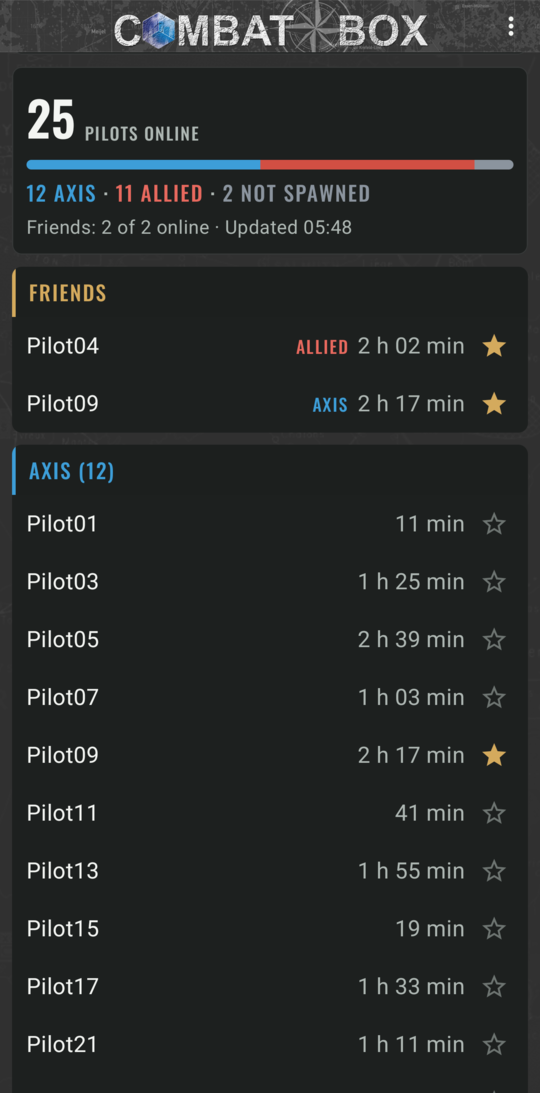
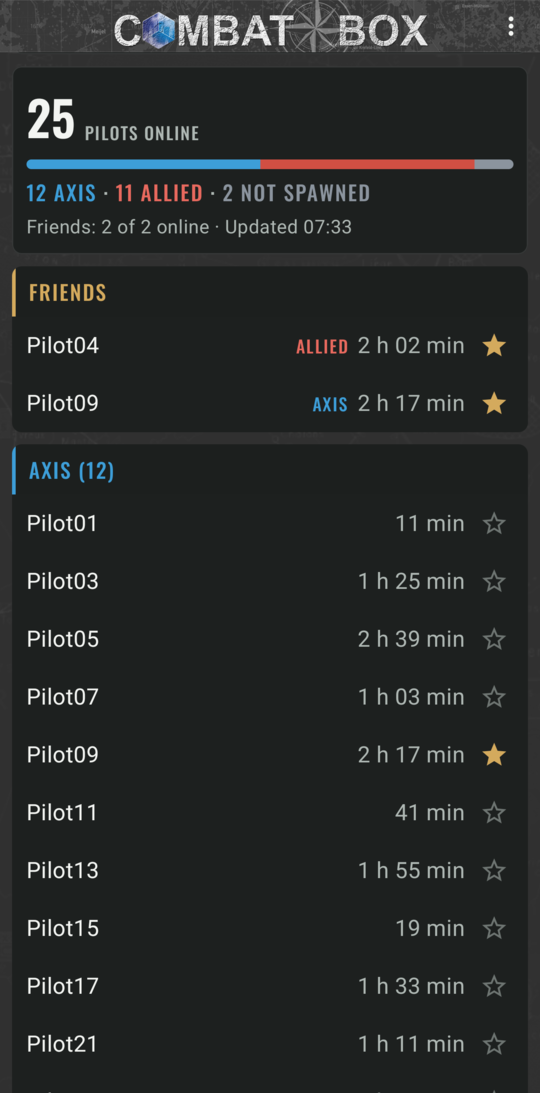
release: 1.1.0
Version 1.1.0: pilot stats, squad stars, polish. Fresh README and website screenshots: the stats panel replaces the About shot (which showed server addresses); new link-preview card.

diff --git a/site/index.html b/site/index.html
@@ -99,9 +99,9 @@
           <figcaption>Friends at the top</figcaption>
         </figure>
         <figure>
-          <img class="shot" src="screenshots/about.png" width="540" height="1093" loading="lazy"
-               alt="The About dialog showing the version and where the data comes from">
-          <figcaption>About</figcaption>
+          <img class="shot" src="screenshots/stats.png" width="540" height="1093" loading="lazy"
+               alt="A pilot's stats: lifetime flight hours, kills and best streaks, most-flown aircraft, and their record against other players">
+          <figcaption>Pilot stats</figcaption>
         </figure>
       </div>
       <p class="note">The pilot names in these screenshots are made up.</p>

diff --git a/README.md b/README.md
@@ -9,7 +9,7 @@ See who's flying on [Combat Box](https://combatbox.net) (IL-2 Great Battles) bef
 <p align="center">
   <img src="site/screenshots/main.png" width="250" alt="Main screen: the current mission and its time left, the next mission, 25 pilots online split by side, and the Axis list">
   <img src="site/screenshots/lists.png" width="250" alt="Two starred friends pinned in a Friends section above the Axis list">
-  <img src="site/screenshots/about.png" width="250" alt="The About dialog showing the version and where the data comes from">
+  <img src="site/screenshots/stats.png" width="250" alt="A pilot's stats: lifetime flight hours, kills and best streaks, most-flown aircraft, and their record against other players">
 </p>
 
 <sub>The pilot names in these screenshots are made up.</sub>
